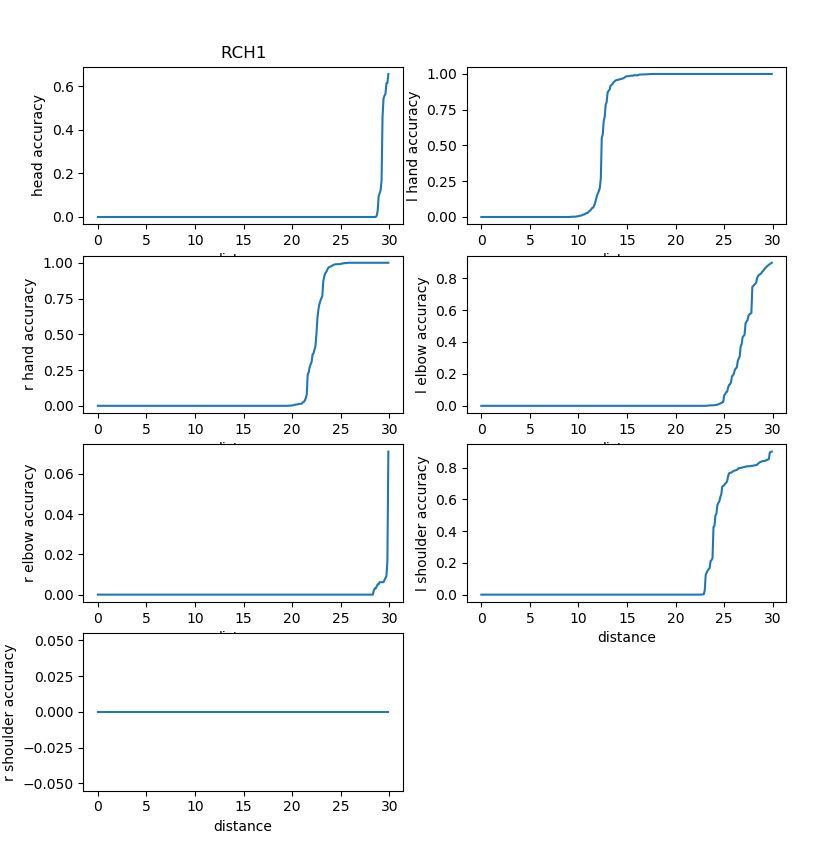
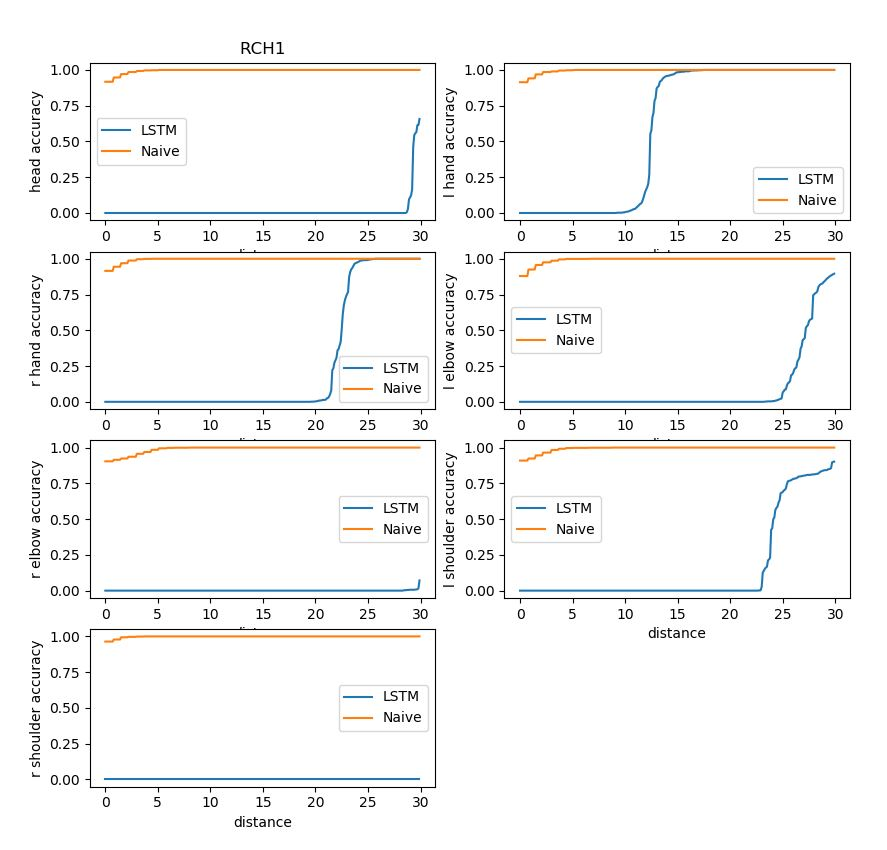
Update the result curve with navie model

Changed region(s): [[0.0, 0.0306, 0.9732, 0.9788]]

diff --git a/ProcessResult.py b/ProcessResult.py
@@ -33,16 +33,22 @@ PD3=np.genfromtxt(path+'Prediction3.csv',delimiter=',')
 
 def percentage_in_range(GT,PD,r):
 	rate=[]
+	rate_navie=[]
 	GT=np.reshape(GT, (GT.shape[0],7,2))
 	PD=np.reshape(PD, (PD.shape[0],7,2))
 	for i in range(7):
 		hit=0
-		for j in range(GT.shape[0]):
+		hit_navie=0
+		for j in range(1,GT.shape[0]):
 			distance=((GT[j,i,0]-PD[j,i,0])**2+(GT[j,i,1]-PD[j,i,1])**2)**0.5
+			distance_navie=((GT[j,i,0]-GT[j-1,i,0])**2+(GT[j,i,1]-GT[j-1,i,1])**2)**0.5
 			if distance<=r:
 				hit+=1
-		rate.append(hit/GT.shape[0])
-	return rate#list with len 7
+			if distance_navie<=r:
+				hit_navie+=1
+		rate.append(hit/(GT.shape[0]-1))
+		rate_navie.append(hit_navie/(GT.shape[0]-1))
+	return rate, rate_navie#list with len 7
 
 r=np.arange(0,30,0.1)
 head=[]
@@ -54,46 +60,60 @@ l_shoulder=[]
 r_shoulder=[]
 for i in range(len(r)):
 	print(i)
-	rate=percentage_in_range(GT1,PD1,r[i])
-	head.append(rate[0])
-	l_hand.append(rate[1])
-	r_hand.append(rate[2])
-	l_elbow.append(rate[3])
-	r_elbow.append(rate[4])
-	l_shoulder.append(rate[5])
-	r_shoulder.append(rate[6])
+	rate,rate_navie=percentage_in_range(GT1,PD1,r[i])
+	head.append([rate[0],rate_navie[0]])
+	l_hand.append([rate[1],rate_navie[1]])
+	r_hand.append([rate[2],rate_navie[2]])
+	l_elbow.append([rate[3],rate_navie[3]])
+	r_elbow.append([rate[4],rate_navie[4]])
+	l_shoulder.append([rate[5],rate_navie[5]])
+	r_shoulder.append([rate[6],rate_navie[6]])
+head=np.asarray(head)
+l_hand=np.asarray(l_hand)
+r_hand=np.asarray(r_hand)
+l_elbow=np.asarray(l_elbow)
+r_elbow=np.asarray(r_elbow)
+l_shoulder=np.asarray(l_shoulder)
+r_shoulder=np.asarray(r_shoulder)
 plt.subplot(421)
-plt.plot(r,head)
+plt.plot(r,head[:,0],r,head[:,1])
+plt.gca().legend(('LSTM','Naive'))
 plt.title('NY531')
 plt.ylabel('head accuracy')
 plt.xlabel('distance')
 plt.subplot(422)
-plt.plot(r,l_hand)
+plt.plot(r,l_hand[:,0],r,l_hand[:,1])
+plt.gca().legend(('LSTM','Naive'))
 plt.ylabel('l hand accuracy')
 plt.xlabel('distance')
 plt.subplot(423)
-plt.plot(r,r_hand)
+plt.plot(r,r_hand[:,0],r,r_hand[:,1])
+plt.gca().legend(('LSTM','Naive'))
 plt.ylabel('r hand accuracy')
 plt.xlabel('distance')
 plt.subplot(424)
-plt.plot(r,l_elbow)
+plt.plot(r,l_elbow[:,0],r,l_elbow[:,1])
+plt.gca().legend(('LSTM','Naive'))
 plt.ylabel('l elbow accuracy')
 plt.xlabel('distance')
 plt.subplot(425)
-plt.plot(r,r_elbow)
+plt.plot(r,r_elbow[:,0],r,r_elbow[:,1])
+plt.gca().legend(('LSTM','Naive'))
 plt.ylabel('r elbow accuracy')
 plt.xlabel('distance')
 plt.subplot(426)
-plt.plot(r,l_shoulder)
+plt.plot(r,l_shoulder[:,0],r,l_shoulder[:,1])
+plt.gca().legend(('LSTM','Naive'))
 plt.ylabel('l shoulder accuracy')
 plt.xlabel('distance')
 plt.subplot(427)
-plt.plot(r,r_shoulder)
+plt.plot(r,r_shoulder[:,0],r,r_shoulder[:,1])
+plt.gca().legend(('LSTM','Naive'))
 plt.ylabel('r shoulder accuracy')
 plt.xlabel('distance')
 plt.show()
 
-r=np.arange(0,30,0.1)
+
 head=[]
 l_hand=[]
 r_hand=[]
@@ -103,46 +123,60 @@ l_shoulder=[]
 r_shoulder=[]
 for i in range(len(r)):
 	print(i)
-	rate=percentage_in_range(GT2,PD2,r[i])
-	head.append(rate[0])
-	l_hand.append(rate[1])
-	r_hand.append(rate[2])
-	l_elbow.append(rate[3])
-	r_elbow.append(rate[4])
-	l_shoulder.append(rate[5])
-	r_shoulder.append(rate[6])
+	rate,rate_navie=percentage_in_range(GT2,PD2,r[i])
+	head.append([rate[0],rate_navie[0]])
+	l_hand.append([rate[1],rate_navie[1]])
+	r_hand.append([rate[2],rate_navie[2]])
+	l_elbow.append([rate[3],rate_navie[3]])
+	r_elbow.append([rate[4],rate_navie[4]])
+	l_shoulder.append([rate[5],rate_navie[5]])
+	r_shoulder.append([rate[6],rate_navie[6]])
+head=np.asarray(head)
+l_hand=np.asarray(l_hand)
+r_hand=np.asarray(r_hand)
+l_elbow=np.asarray(l_elbow)
+r_elbow=np.asarray(r_elbow)
+l_shoulder=np.asarray(l_shoulder)
+r_shoulder=np.asarray(r_shoulder)
 plt.subplot(421)
-plt.plot(r,head)
+plt.plot(r,head[:,0],r,head[:,1])
+plt.gca().legend(('LSTM','Naive'))
 plt.title('RCH1')
 plt.ylabel('head accuracy')
 plt.xlabel('distance')
 plt.subplot(422)
-plt.plot(r,l_hand)
+plt.plot(r,l_hand[:,0],r,l_hand[:,1])
+plt.gca().legend(('LSTM','Naive'))
 plt.ylabel('l hand accuracy')
 plt.xlabel('distance')
 plt.subplot(423)
-plt.plot(r,r_hand)
+plt.plot(r,r_hand[:,0],r,r_hand[:,1])
+plt.gca().legend(('LSTM','Naive'))
 plt.ylabel('r hand accuracy')
 plt.xlabel('distance')
 plt.subplot(424)
-plt.plot(r,l_elbow)
+plt.plot(r,l_elbow[:,0],r,l_elbow[:,1])
+plt.gca().legend(('LSTM','Naive'))
 plt.ylabel('l elbow accuracy')
 plt.xlabel('distance')
 plt.subplot(425)
-plt.plot(r,r_elbow)
+plt.plot(r,r_elbow[:,0],r,r_elbow[:,1])
+plt.gca().legend(('LSTM','Naive'))
 plt.ylabel('r elbow accuracy')
 plt.xlabel('distance')
 plt.subplot(426)
-plt.plot(r,l_shoulder)
+plt.plot(r,l_shoulder[:,0],r,l_shoulder[:,1])
+plt.gca().legend(('LSTM','Naive'))
 plt.ylabel('l shoulder accuracy')
 plt.xlabel('distance')
 plt.subplot(427)
-plt.plot(r,r_shoulder)
+plt.plot(r,r_shoulder[:,0],r,r_shoulder[:,1])
+plt.gca().legend(('LSTM','Naive'))
 plt.ylabel('r shoulder accuracy')
 plt.xlabel('distance')
 plt.show()
 
-r=np.arange(0,30,0.1)
+
 head=[]
 l_hand=[]
 r_hand=[]
@@ -152,41 +186,55 @@ l_shoulder=[]
 r_shoulder=[]
 for i in range(len(r)):
 	print(i)
-	rate=percentage_in_range(GT3,PD3,r[i])
-	head.append(rate[0])
-	l_hand.append(rate[1])
-	r_hand.append(rate[2])
-	l_elbow.append(rate[3])
-	r_elbow.append(rate[4])
-	l_shoulder.append(rate[5])
-	r_shoulder.append(rate[6])
+	rate,rate_navie=percentage_in_range(GT3,PD3,r[i])
+	head.append([rate[0],rate_navie[0]])
+	l_hand.append([rate[1],rate_navie[1]])
+	r_hand.append([rate[2],rate_navie[2]])
+	l_elbow.append([rate[3],rate_navie[3]])
+	r_elbow.append([rate[4],rate_navie[4]])
+	l_shoulder.append([rate[5],rate_navie[5]])
+	r_shoulder.append([rate[6],rate_navie[6]])
+head=np.asarray(head)
+l_hand=np.asarray(l_hand)
+r_hand=np.asarray(r_hand)
+l_elbow=np.asarray(l_elbow)
+r_elbow=np.asarray(r_elbow)
+l_shoulder=np.asarray(l_shoulder)
+r_shoulder=np.asarray(r_shoulder)
 plt.subplot(421)
-plt.plot(r,head)
+plt.plot(r,head[:,0],r,head[:,1])
+plt.gca().legend(('LSTM','Naive'))
 plt.title('RCH3')
 plt.ylabel('head accuracy')
 plt.xlabel('distance')
 plt.subplot(422)
-plt.plot(r,l_hand)
+plt.plot(r,l_hand[:,0],r,l_hand[:,1])
+plt.gca().legend(('LSTM','Naive'))
 plt.ylabel('l hand accuracy')
 plt.xlabel('distance')
 plt.subplot(423)
-plt.plot(r,r_hand)
+plt.plot(r,r_hand[:,0],r,r_hand[:,1])
+plt.gca().legend(('LSTM','Naive'))
 plt.ylabel('r hand accuracy')
 plt.xlabel('distance')
 plt.subplot(424)
-plt.plot(r,l_elbow)
+plt.plot(r,l_elbow[:,0],r,l_elbow[:,1])
+plt.gca().legend(('LSTM','Naive'))
 plt.ylabel('l elbow accuracy')
 plt.xlabel('distance')
 plt.subplot(425)
-plt.plot(r,r_elbow)
+plt.plot(r,r_elbow[:,0],r,r_elbow[:,1])
+plt.gca().legend(('LSTM','Naive'))
 plt.ylabel('r elbow accuracy')
 plt.xlabel('distance')
 plt.subplot(426)
-plt.plot(r,l_shoulder)
+plt.plot(r,l_shoulder[:,0],r,l_shoulder[:,1])
+plt.gca().legend(('LSTM','Naive'))
 plt.ylabel('l shoulder accuracy')
 plt.xlabel('distance')
 plt.subplot(427)
-plt.plot(r,r_shoulder)
+plt.plot(r,r_shoulder[:,0],r,r_shoulder[:,1])
+plt.gca().legend(('LSTM','Naive'))
 plt.ylabel('r shoulder accuracy')
 plt.xlabel('distance')
 plt.show()
